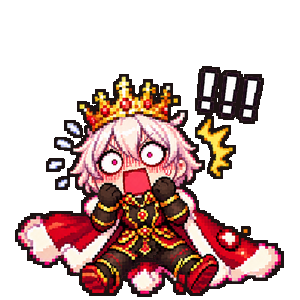
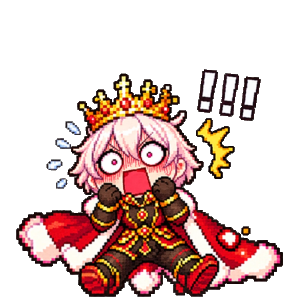
[Feat] 설문에 플레이어 번호 미리 채우기, 순간폭탄 꾹 눌러 연사, 왕 표정 테두리 다시 입히기
- 설문: Analytics 사용자 ID를 구글 폼 번호 칸(entry)에 미리 채워 열어 설문 답과 플레이 기록을 이어 봄. 동의 창에 안내 한 줄
- 순간폭탄: 지속 중에는 좌클릭을 꾹 누르면 연사 간격·충전마다 자동으로 나감, 끝나면 원래대로(남은 입력도 지움)
- 왕 표정 5장(웃음·울음·분노·깜짝·렛츠고): Varco로 자연스러운 테두리를 다시 받아 원본 크기·위치에 맞춤. 테두리 전 원본은 ArtSource/Original/King

Changed region(s): [[0.03, 0.21, 0.96, 0.99]]

diff --git a/Assets/_Project/01. Scripts/UI/SurveyData.cs b/Assets/_Project/01. Scripts/UI/SurveyData.cs
@@ -1,18 +1,33 @@
+using System;
 using UnityEngine;
 
 namespace ExplodeIt.UI
 {
     // 플레이 테스트 설문 링크. 타이틀·결과 창 버튼이 함께 쓴다. 설문을 바꾸면 이 에셋의 주소만 고친다.
+    // 플레이 기록의 익명 번호를 설문의 번호 칸에 미리 채워 열어, 설문 답과 플레이 기록을 같은 사람끼리 이어 볼 수 있게 한다.
     [CreateAssetMenu(fileName = "SurveyData", menuName = "Explode It/Survey Data")]
     public class SurveyData : ScriptableObject
     {
-        [Tooltip("설문 페이지 주소(구글 폼 등). 비워 두면 설문 버튼을 숨긴다")]
+        [Tooltip("설문 페이지 주소(구글 폼의 .../viewform까지, 뒤의 ?는 빼고). 비워 두면 설문 버튼을 숨긴다")]
         [SerializeField] private string _url = "";
+        [Tooltip("플레이어 번호를 미리 채울 칸 이름. 구글 폼 '양식 미리 작성' 링크의 entry.숫자 부분. 비워 두면 번호 없이 연다")]
+        [SerializeField] private string _playerIdEntry = "";
         [Tooltip("설문 버튼을 눌렀을 때 확인 창에 띄울 글")]
         [SerializeField, TextArea(2, 4)] private string _confirmMessage = "플레이 소감 설문 페이지를 열까요?\n(브라우저 새 창에서 열려요)";
 
-        public string Url => _url;
         public string ConfirmMessage => _confirmMessage;
         public bool HasUrl => !string.IsNullOrWhiteSpace(_url);
+
+        // 번호가 없으면(기록 수집을 거절한 사람 등) 빈 칸으로 연다.
+        public string BuildUrl(string playerId)
+        {
+            if (string.IsNullOrEmpty(_playerIdEntry) || string.IsNullOrEmpty(playerId))
+            {
+                return _url;
+            }
+
+            string separator = _url.Contains("?") ? "&" : "?";
+            return _url + separator + "usp=pp_url&" + _playerIdEntry + "=" + Uri.EscapeDataString(playerId);
+        }
     }
 }

diff --git a/Assets/_Project/01. Scripts/Bomb/BombLauncher.cs b/Assets/_Project/01. Scripts/Bomb/BombLauncher.cs
@@ -155,7 +155,9 @@ namespace ExplodeIt.Bombs
             }
 
             // 폭탄이 없을 때 누른 것은 기억하지 않는다. 다시 차는 순간 저절로 나가면 의도와 다르기 때문이다.
-            if (_input.ThrowPressed && _chargesLeft > 0)
+            // 순간폭탄 동안은 꾹 누르고 있으면 연사 간격·충전마다 저절로 나간다. 짧은 지속 시간에 연타하느라 조준이 흔들리지 않게 한다.
+            bool wantsThrow = _input.ThrowPressed || (_isInstantMode && _input.ThrowHeld);
+            if (wantsThrow && _chargesLeft > 0)
             {
                 _throwQueuedUntil = Time.time + ThrowBufferTime;
             }
@@ -411,6 +413,8 @@ namespace ExplodeIt.Bombs
             _stats.ExplosionRadius = _savedExplosionRadius;
             _stats.MaxThrowRange = _savedMaxThrowRange;
             _throwSource = DamageSource.Bomb;
+            // 꾹 누른 채로 끝나면 기억해 둔 입력 때문에 일반 폭탄이 한 발 더 나가지 않게 지운다.
+            _throwQueuedUntil = -1f;
             ApplyStats();
         }
 

diff --git a/Assets/_Project/01. Scripts/Player/PlayerInputReader.cs b/Assets/_Project/01. Scripts/Player/PlayerInputReader.cs
@@ -21,6 +21,8 @@ namespace ExplodeIt.Player
         public Vector2 Aim => _aimAction.action.ReadValue<Vector2>();
         // 한 번 누를 때 한 번만 던진다. 꾹 누르고 있어도 연사되지 않게 누른 프레임만 읽는다.
         public bool ThrowPressed => !IsLocked && !PointerBlocked && _throwAction.action.WasPressedThisFrame();
+        // 누르고 있는 동안 계속 참. 순간폭탄 스킬 동안만 꾹 눌러 연사하는 데 쓴다.
+        public bool ThrowHeld => !IsLocked && !PointerBlocked && _throwAction.action.IsPressed();
         // 게이지가 차는 순간 누르고 있던 버튼으로 바로 나가지 않도록, 누른 프레임만 읽는다.
         public bool AbilityPressed => !IsLocked && !PointerBlocked && !IsAbilityBlocked && _abilityAction.action.WasPressedThisFrame();
         // 키보드 입력이라 패널 위 커서와 무관하게 받는다.

diff --git a/Assets/_Project/01. Scripts/UI/AnalyticsConsentDialog.cs b/Assets/_Project/01. Scripts/UI/AnalyticsConsentDialog.cs
@@ -19,7 +19,8 @@ namespace ExplodeIt.UI
         [Header("글")]
         [SerializeField] private string _title = "플레이 기록 수집 안내";
         [SerializeField, TextArea(8, 16)] private string _body =
-            "더 재미있는 게임을 만들기 위해 플레이 기록(판 결과, 고른 장비, 진행 상황)과 기본 기기 정보를 익명으로 수집하려고 합니다.\n\n" +
+            "더 재미있는 게임을 만들기 위해 플레이 기록(판 결과, 고른 장비, 진행 상황)과 기본 기기 정보를 익명으로 수집하려고 합니다.\n" +
+            "설문에 참여하면 설문 답과 플레이 기록이 같은 익명 번호로 묶입니다.\n" +
             "이름, 연락처 같은 개인정보는 수집하지 않고, 설정에서 언제든 끌 수 있습니다.";
 
         public bool IsOpen { get; private set; }

diff --git a/Assets/_Project/01. Scripts/Core/Analytics/PlayAnalytics.cs b/Assets/_Project/01. Scripts/Core/Analytics/PlayAnalytics.cs
@@ -29,6 +29,10 @@ namespace ExplodeIt.Core
         private static bool CanSend => _data != null && _data.IsEnabled && SaveSystem.Data.AnalyticsEnabled
             && (!Application.isEditor || _data.SendFromEditor);
 
+        // 기록에 붙는 익명 사용자 번호. 설문 답과 기록을 같은 사람끼리 이어 보려고 설문 링크에 붙인다.
+        // 수집을 거절했거나 서비스가 아직 안 켜졌으면 빈 문자열(기록이 없으니 이을 것도 없다).
+        public static string UserId => _isReady && CanSend ? AnalyticsService.Instance.GetAnalyticsUserID() : "";
+
         public static void Configure(AnalyticsData data)
         {
             if (_data != null || data == null)

diff --git a/Assets/_Project/01. Scripts/UI/SurveyButton.cs b/Assets/_Project/01. Scripts/UI/SurveyButton.cs
@@ -25,7 +25,7 @@ namespace ExplodeIt.UI
 
         private void OpenSurvey()
         {
-            Application.OpenURL(_data.Url);
+            Application.OpenURL(_data.BuildUrl(Core.PlayAnalytics.UserId));
         }
     }
 }

diff --git a/Docs/devlog.md b/Docs/devlog.md
@@ -269,3 +269,5 @@
 2026-10-26 | 오프닝 건너뛰기 칸을 줄였는데도 만화 대사 칸을 가림(사용자 지적) | AI가 오른쪽 위 큰 버튼을 오른쪽 아래로 옮겼는데 그 자리가 4번 칸 대사 상자와 겹침. "넘기기 (클릭, Space)" 글씨도 같은 자리에 겹침 | 건너뛰기는 오른쪽 위 만화 바깥 여백에 두 줄짜리 작은 칸(176×76, 평소 반투명)으로, 넘기기 안내는 글씨를 빼고 지금 칸 대사 상자 오른쪽 끝에 ▼만 통통 튀게 함 | 만화를 가리는 UI 없음
 2026-10-26 | 넘기기 ▼ 뒤에 회색 네모가 보임(사용자 지적) | AI가 안내 칸을 40×40으로 줄이면서 글씨 칸을 받치던 부모의 배경 이미지를 그대로 둠 | 배경 이미지를 끄고 화살표를 검은색으로 | 화살표만 보임
 2026-10-26 | 오프닝에서 고블린이 책에서 튀어나와 착지할 때 마우스 쪽을 봄(사용자 지적) | 왕을 바라보라는 요청을 첫 대사가 뜰 때 보냄 | 오프닝이 시작될 때 바로 보냄 | 튀어나올 때부터 왕 쪽을 봄
+2026-10-26 | 왕 표정 그림을 크게 보니 주변 반짝이 점 하나하나에도 검은 테두리가 쳐져 있음(사용자 지적) | 10/13에 AI가 그림 둘레 전체에 기계적으로 테두리를 둘러 떨어진 작은 점까지 감쌈 | AI가 작은 덩어리 주변 테두리만 걷어 내 봤으나 더 어색하다는 평가로 되돌림. 테두리 넣기 전 원본을 Varco에 넣어 자연스러운 테두리를 다시 받고, 체크무늬·자홍 배경 제거 후 원본과 같은 크기·위치(오차 1~3픽셀)로 맞춤 | 웃음·울음·분노·깜짝·렛츠고 5장 교체, 원본은 ArtSource/Original/King에 보관
+2026-10-26 | 설문 링크의 플레이어 번호가 에디터에서 비어 있음 | 에디터 기록 보내기(Send From Editor)가 꺼져 있으면 Analytics 서비스를 켜지 않아 사용자 ID가 없음(의도한 동작) | 코드는 그대로, 확인은 빌드에서 하도록 안내 | 빌드에서 번호 확인
